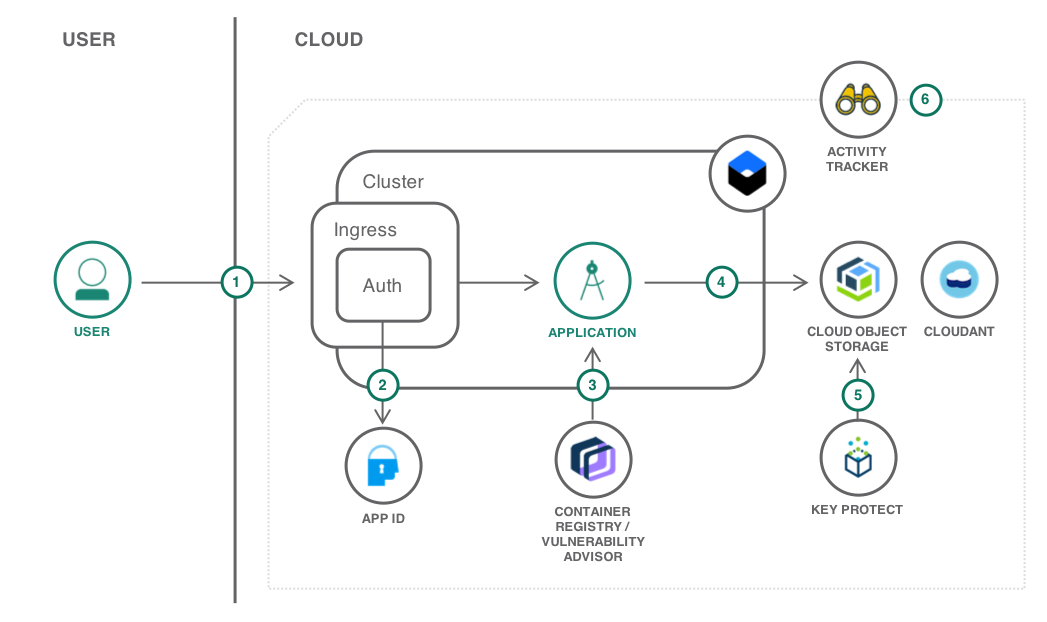
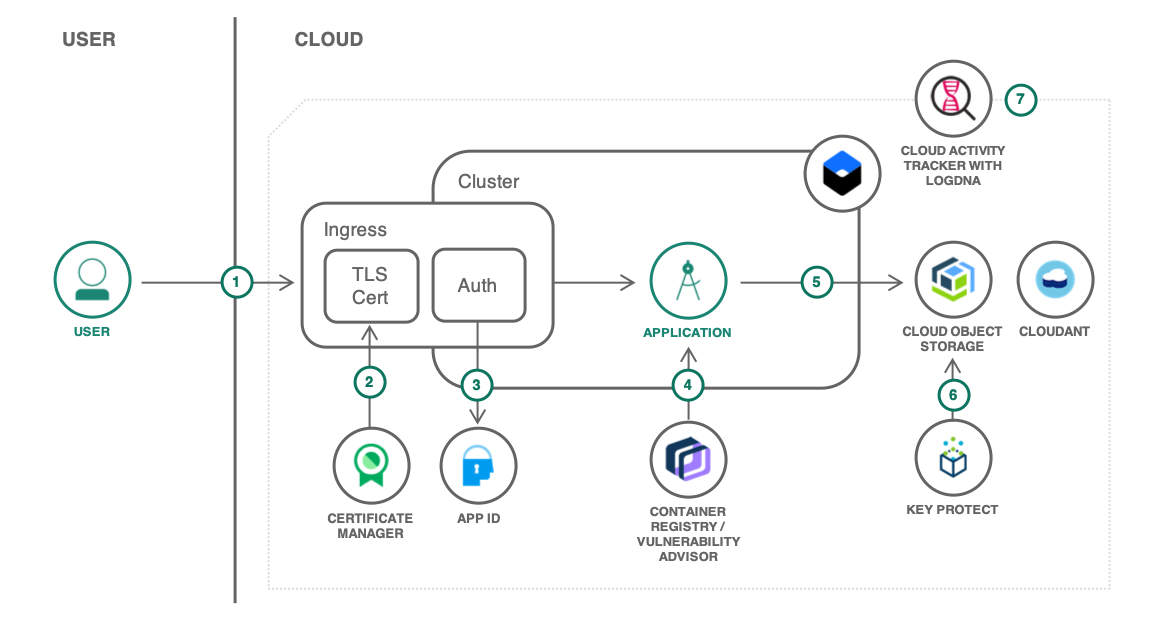
bluemix -> cloud and new activity tracker service

diff --git a/README.md b/README.md
@@ -2,16 +2,16 @@
 
 The repository features a sample application that enables groups of users to upload files to a common storage pool and to provide access to those files via shareable links. The application is written in Node.js and deployed as Docker container to the IBM Cloud Kubernetes service. It leverages several security-related services and features to improve app security. It includes data encrypted with your own keys, user authentication, and security auditing.
 
-Refer to [this tutorial](https://console.bluemix.net/docs/tutorials/cloud-e2e-security.html) for instructions.
+Refer to [this tutorial](https://cloud.ibm.com/docs/tutorials?topic=solution-tutorials-cloud-e2e-security) for instructions.
 
 ![Architecture](Architecture.png)
 
 1. The user connects to the application.
-2. [App ID](https://console.bluemix.net/catalog/services/AppID) secures the application and redirects the user to the authentication page. Users can sign up from there too.
-3. The application is running in a [Kubernetes cluster](https://console.bluemix.net/containers-kubernetes/catalog/cluster) from an image stored in the [container registry](https://console.bluemix.net/containers-kubernetes/launchRegistryView). The image is automatically scanned for vulnerabilities.
-4. Files uploaded by the user are stored in [Cloud Object Storage](https://console.bluemix.net/catalog/services/cloud-object-storage).
+2. [App ID](https://cloud.ibm.com/catalog/services/AppID) secures the application and redirects the user to the authentication page. Users can sign up from there too.
+3. The application is running in a [Kubernetes cluster](https://cloud.ibm.com/containers-kubernetes/catalog/cluster) from an image stored in the [container registry](https://cloud.ibm.com/containers-kubernetes/launchRegistryView). The image is automatically scanned for vulnerabilities.
+4. Files uploaded by the user are stored in [Cloud Object Storage](https://cloud.ibm.com/catalog/services/cloud-object-storage).
 5. The bucket where the files are stored is using a user-provided key to encrypt the data.
-6. All activities related to managing the solution are logged by [Activity Tracker](https://console.bluemix.net/catalog/services/activity-tracker).
+6. All activities related to managing the solution are logged by [Cloud Activity Tracker with LogDNA](https://cloud.ibm.com/catalog/services/logdnaat).
 
 ## Deploy with a toolchain
 
@@ -27,7 +27,7 @@ This project comes with a partially automated toolchain capable of deploying the
 
 ### And then
 
-[![Create toolchain](https://console.bluemix.net/devops/graphics/create_toolchain_button.png)](https://console.bluemix.net/devops/setup/deploy/?repository=https%3A//github.com/IBM-Cloud/secure-file-storage)
+[![Create toolchain](https://cloud.ibm.com/devops/graphics/create_toolchain_button.png)](https://cloud.ibm.com/devops/setup/deploy/?repository=https%3A//github.com/IBM-Cloud/secure-file-storage)
 
 Once the toolchain has completed, the application will be available at `https://secure-file-storage.<your-cluster-ingress-domain>`.
 
